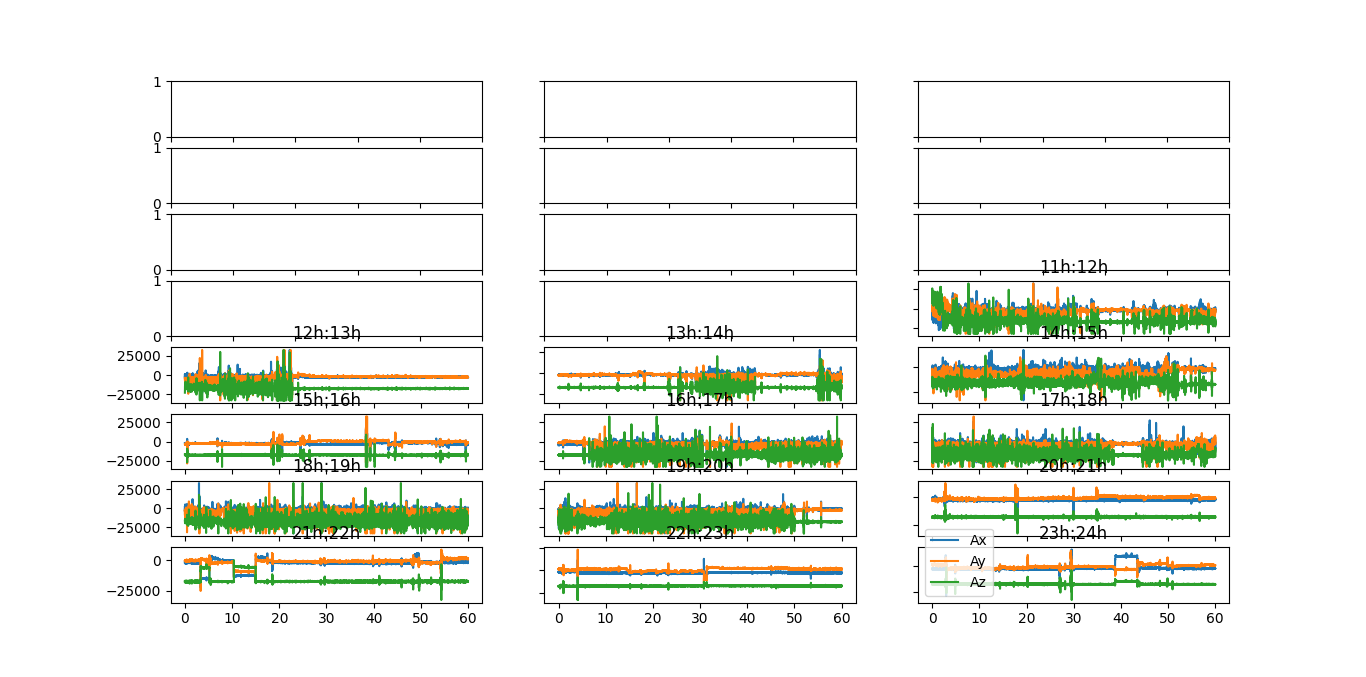
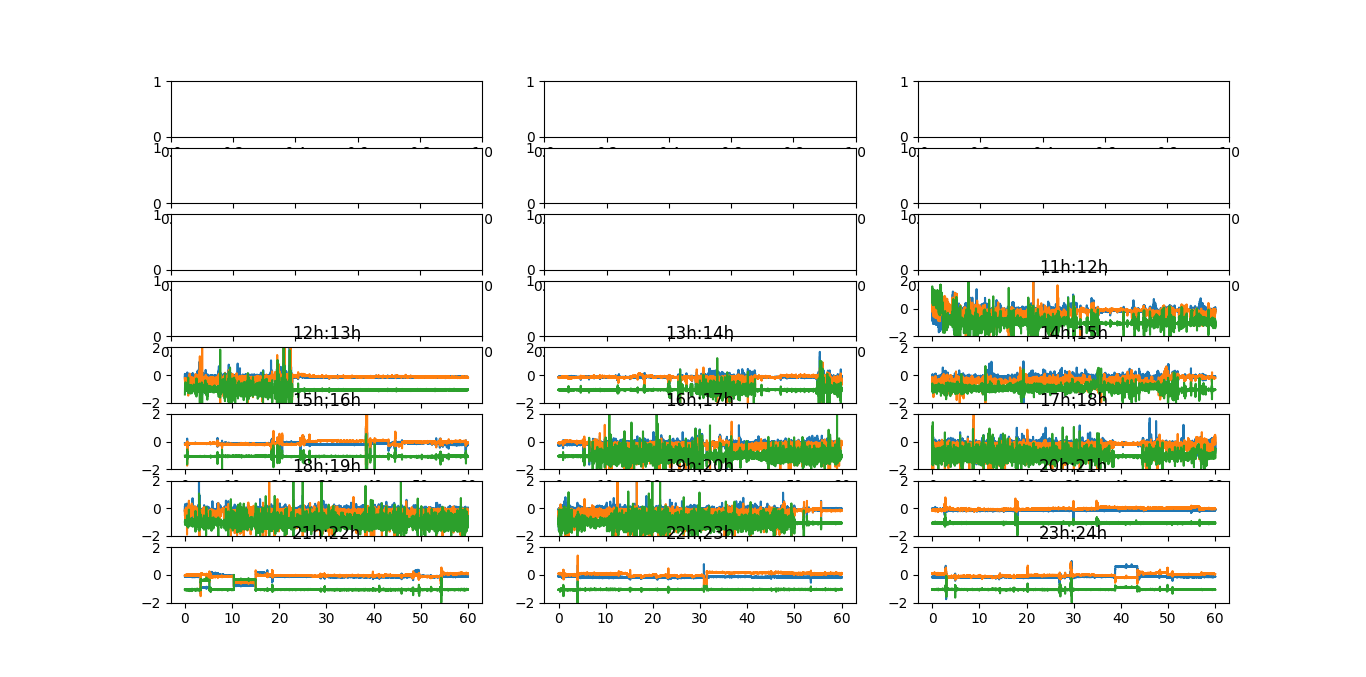
ajuste nos intervalors das coordenadas, renomeacao de variaveis e remocao de lista de thresholds

diff --git a/main/exp_3/acc_plot_all.py b/main/exp_3/acc_plot_all.py
@@ -4,7 +4,7 @@ import matplotlib.pyplot as plt
 
 if __name__ == "__main__":
     ts, Ax, Ay, Az = [], [], [], []
-    file = open('mestrado/data/exp_3/20191021104433.txt', 'r')
+    file = open('mestrado/data/exp_3/20191021104433-acc.txt', 'r')
     for line in file.readlines():
         raw_ts, raw_Ax, raw_Ay, raw_Az, *_ = line.strip().split(';')
         ts.append(int(raw_ts))
@@ -12,35 +12,28 @@ if __name__ == "__main__":
         Ay.append((2 * float(raw_Ay))/ 32768.)
         Az.append((2 * float(raw_Az))/ 32768.)
     #1571666400000 -> day 21/10/19 11h 00m 00s
-    #1571713200000 -> day 22/10/19
-    #1571666400000 11h #1571670000000 12h #1571673600000 13h #1571677200000 14h  
-    #1571680800000 15h #1571684400000 16h #1571688000000 17h #1571691600000 18h
-    #1571695200000 19h #1571698800000 20h #1571702400000 21h #1571706000000 22h
-    #1571709600000 23h
-    #1571713200000 24h
-    thresholds = [0,0,0,0,0,0,0,0,0,0,0,1571666400000, 1571670000000, 1571673600000, 1571677200000, 1571680800000,
-    1571684400000, 1571688000000, 1571691600000, 1571695200000, 1571698800000, 1571702400000, 1571706000000,
-    1571709600000, 1571713200000]
+    threshold = 1571666400000
     fig, axs = plt.subplots(nrows=8, ncols=3)
     for n in range(11, 24, 1):
-        plot = [(0, 0), (0, 1), (0, 2),
-                (1, 0), (1, 1), (1, 2),
-                (2, 0), (2, 1), (2, 2),
-                (3, 0), (3, 1), (3, 2),
-                (4, 0), (4, 1), (4, 2),
-                (5, 0), (5, 1), (5, 2),
-                (6, 0), (6, 1), (6, 2),
-                (7, 0), (7, 1), (7, 2),
+        graphics = [
+            (0, 0), (0, 1), (0, 2),
+            (1, 0), (1, 1), (1, 2),
+            (2, 0), (2, 1), (2, 2),
+            (3, 0), (3, 1), (3, 2),
+            (4, 0), (4, 1), (4, 2),
+            (5, 0), (5, 1), (5, 2),
+            (6, 0), (6, 1), (6, 2),
+            (7, 0), (7, 1), (7, 2)
         ]
-        x_plot, y_plot = plot[n]
-        threshold_min, threshold_max = thresholds[n], thresholds[n+1]
+        i_graphic, j_graphic = graphics[n]
+        threshold_min, threshold_max = threshold, threshold+3600000
+        threshold = threshold_max
         index = [i for i, x in enumerate(ts) if x >= threshold_min and x < threshold_max ]      
-        axs[x_plot, y_plot].plot([(ts[i]-threshold_min)/60000 for i in index], [Ax[i] for i in index], label='Ax')
-        axs[x_plot, y_plot].plot([(ts[i]-threshold_min)/60000 for i in index], [Ay[i] for i in index], label='Ay')
-        axs[x_plot, y_plot].plot([(ts[i]-threshold_min)/60000 for i in index], [Az[i] for i in index], label='Az')
-        axs[x_plot, y_plot].set_ylim([-2, 2])
-        axs[x_plot, y_plot].set_title('{}h:{}h'.format(n, n+1))
-    for ax in axs.flat:
-        ax.label_outer()
-    plt.legend()
+        axs[i_graphic, j_graphic].plot([(ts[i]-threshold_min)/60000 for i in index], [Ax[i] for i in index], label='Ax')
+        axs[i_graphic, j_graphic].plot([(ts[i]-threshold_min)/60000 for i in index], [Ay[i] for i in index], label='Ay')
+        axs[i_graphic, j_graphic].plot([(ts[i]-threshold_min)/60000 for i in index], [Az[i] for i in index], label='Az')
+        axs[i_graphic, j_graphic].set_ylim([-2, 2])
+        axs[i_graphic, j_graphic].set_title('{}h:{}h'.format(n, n+1))
+    #plt.legend(loc="best")
+    #plt.savefig('mestrado/figures/exp3/accelerometer/exp3_acc_all.png')
     plt.show()
